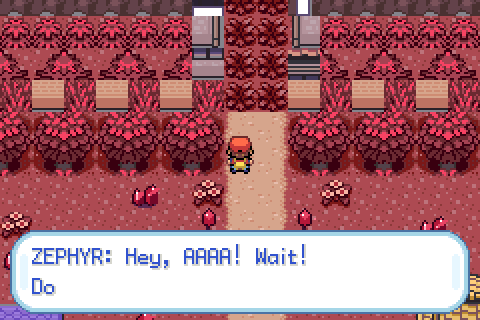
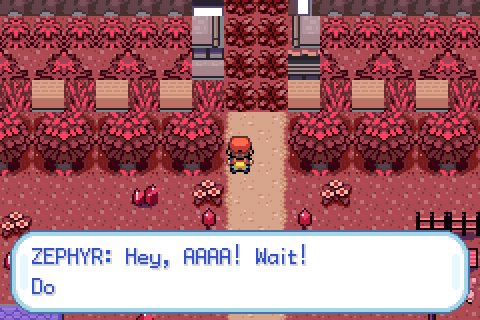
Grenalux: ranch avec enclos cloture et animaux (maison voisine supprimee)
Claude-Session: https://claude.ai/code/session_01GQJ6VBZbBVtTh4mURN6n2L

Changed region(s): [[0.8438, 0.6562, 1.0, 1.0]]

diff --git a/docs/topaze/grenalux_town.py b/docs/topaze/grenalux_town.py
@@ -89,10 +89,9 @@ D['ranch'] = chunk(PB, 30, 5, 2, 5, 4, 34, 5, 'ranch')
 D['museum'] = chunk(PB, 30, 12, 4, 6, 5, 5, 17, 'musee')
 D['lab'] = chunk(LR, 20, 3, 12, 7, 5, 31, 17, 'labo')
 D['hA'] = chunk(PB, 30, 5, 2, 5, 4, 12, 6, 'maison A ardoise', PBP)
-D['hB'] = chunk(LR, 20, 2, 4, 5, 5, 28, 5, 'maison B ocre', LRP)
 D['hC'] = chunk(PB, 30, 5, 2, 5, 4, 12, 14, 'maison C', None)
 D['hD'] = chunk(PB, 30, 9, 16, 4, 4, 11, 27, 'maison D ardoise', PBP)
-D['hE'] = chunk(LR, 20, 2, 4, 5, 5, 3, 27, 'maison E', None)
+D['hE'] = chunk(LR, 20, 2, 4, 5, 5, 3, 27, 'maison E ocre', LRP)
 D['garden'] = chunk(PB, 30, 18, 20, 8, 7, 34, 27, 'maison jardin', None)
 for k, v in D.items(): assert v, 'porte introuvable ' + k
 assert D['player'] == (8, 9) and D['ranch'] == (36, 8) and D['museum'] == (8, 21) and D['lab'] == (35, 21), D
@@ -106,12 +105,21 @@ place_sm(C.BIG, 18, 8, 3, 3, 'cristal garde O'); place_sm(C.BIG, 25, 8, 3, 3, 'c
 place_sm(C.MINE, 38, 22, 3, 3, 'mine')
 for k, (x, y, v) in enumerate(((38, 14, 0), (40, 16, 1), (38, 18, 1), (40, 20, 0))): place_sm(C.BOUL[v], x, y, 2, 2, 'bloc%d' % k)
 def one(x, y, v, name): claim(x, y, 1, 1, name); put(x, y, 0x400 | v)
-for (x, y) in ((21, 3), (24, 3), (21, 7), (24, 7), (10, 11), (18, 11), (26, 11), (34, 11), (10, 14), (18, 14), (30, 14), (38, 14 - 1 + 1 - 1),
+for (x, y) in ((21, 3), (24, 3), (21, 7), (24, 7), (10, 11), (18, 11), (26, 11), (34, 11), (10, 14), (18, 14), (30, 14), (38, 11),
                (15, 19), (30, 19), (15, 25), (30, 25), (10, 31), (16, 26)):
     if (x, y) in OCC: continue
     one(x, y, C.LAMP, 'lampe')
 for (x, y) in ((38, 17), (41, 14), (41, 19), (38, 21), (41, 22), (37, 24), (41, 11), (41, 18)): one(x, y, C.ROCK, 'rocher')
-for (x, y) in ((10, 9), (33, 8), (36, 22), (11, 21), (21, 10), (10, 15)): one(x, y, 3, 'panneau')
+for (x, y) in ((10, 9), (37, 9), (36, 22), (11, 21), (21, 10), (10, 15)): one(x, y, 3, 'panneau')
+# ---- enclos du ranch : clotures x28..33, y3..10 (portail en x30..31), foin, abreuvoir, animaux
+for x in range(28, 34):
+    for y in (3, 10):
+        if y == 10 and x in (30, 31): continue
+        one(x, y, C.FENCE_H, 'cloture')
+for y in range(4, 10):
+    one(28, y, C.FENCE_V, 'cloture'); one(33, y, C.FENCE_V, 'cloture')
+one(29, 4, C.HAY, 'foin'); one(32, 4, C.HAY, 'foin'); one(32, 9, C.TROUGH, 'abreuvoir')
+claim(29, 5, 4, 4, 'enclos')
 for _x in range(20, 25):
     for _y in range(20, 25):
         if (_x, _y) not in OCC: claim(_x, _y, 1, 1, 'ilot')
@@ -135,12 +143,12 @@ def rect(x0, y0, x1, y1):
             PATH.add((x, y))
 rect(GATE_X, 0, GATE_X + 1, 19)
 rect(7, 12, 40, 13)
-rect(7, 10, 8, 11); rect(35, 9, 36, 11)
+rect(7, 10, 8, 11); rect(35, 9, 36, 11); rect(30, 11, 31, 11)
 rect(16, 18, 29, 26)
 rect(7, 22, 8, 25); rect(7, 24, 15, 25)
 rect(34, 22, 35, 25); rect(30, 24, 35, 25); rect(36, 25, 41, 26)
 rect(17, 27, 28, 28); rect(16, 27, 17, 33); rect(28, 27, 29, 33)
-for k in ('hA', 'hB', 'hC', 'hD', 'hE', 'garden'): pass
+for k in ('hA', 'hC', 'hD', 'hE', 'garden'): pass
 def passable(c):
     x, y = c
     return 2 <= x <= W - 3 and 1 <= y <= H - 4 and c not in OCC
@@ -157,7 +165,7 @@ def connect(start):
             n = (c[0] + d[0], c[1] + d[1])
             if n not in prev and passable(n): prev[n] = c; q.append(n)
     raise AssertionError('porte isolee %s' % (start,))
-for k in ('hA', 'hB', 'hC', 'hD', 'hE'): connect((D[k][0], D[k][1] + 1))
+for k in ('hA', 'hC', 'hD', 'hE'): connect((D[k][0], D[k][1] + 1))
 connect((33, 31))                          # le potager s'ouvre a l'ouest (rangee 4 du bloc)
 connect((39, 25))
 def path_id(x, y):
@@ -205,8 +213,8 @@ while placed < 14 and tries < 3000:
     if G[(x, y)] in (GRASS, FLOWER) and (x, y) not in OCC and (x, y) not in PATH and not near(x, y, 1):
         put(x, y, 0x400 | rnd.choice(C.SM)); claim(x, y, 1, 1, 'petit cristal'); placed += 1
 # ---- PNJ d'ambiance (cases reservees) ; coordonnees reprises par grenalux_events.py
-NPC = {'miner': (41, 26), 'oldman': (19, 22), 'girl': (17, 30), 'boy': (29, 31), 'scientist': (33, 23), 'lady': (36, 23)}
-for k, c in NPC.items(): assert c not in OCC and G[c] in (GRASS, FLOWER) or c in PATH, (k, c, hex(G[c]))
+NPC = {'slowpoke': (30, 6), 'nidoran': (31, 8), 'meowth': (29, 7), 'miner': (41, 26), 'oldman': (19, 22), 'girl': (17, 30), 'boy': (29, 31), 'scientist': (33, 23), 'lady': (36, 23)}
+for k, c in NPC.items(): assert (c not in OCC or OCC[c] == 'enclos') and G[c] in (GRASS, FLOWER) or c in PATH, (k, c, hex(G[c]))
 json.dump(NPC, open('/tmp/grenalux_npc.json', 'w'))
 # ---- ecriture
 open(SD + 'metatiles.bin', 'wb').write(mt); open(SD + 'metatile_attributes.bin', 'wb').write(att)

diff --git a/docs/topaze/grenalux_crystals.py b/docs/topaze/grenalux_crystals.py
@@ -103,6 +103,32 @@ def mine():
     d.rectangle((22, 14, 25, 19), fill=11); d.polygon([(23, 9), (26, 12), (23, 15), (20, 12)], fill=8, outline=5)   # cristal-enseigne
     d.line([(17, 44), (30, 44)], fill=13); d.line([(17, 47), (30, 47)], fill=13)
     return im, 3, 3
+
+def fence_h():
+    im = ground_bg(16, 16); d = ImageDraw.Draw(im)
+    shadow(d, 0, 12, 15, 15)
+    for y in (5, 9): d.rectangle((0, y, 15, y + 1), fill=13, outline=14); d.line([(0, y), (15, y)], fill=15)
+    for x in (0, 7, 14): d.rectangle((x, 2, x + 1, 13), fill=12, outline=14); d.point((x, 3), fill=13)
+    return im
+def fence_v():
+    im = ground_bg(16, 16); d = ImageDraw.Draw(im)
+    shadow(d, 4, 12, 12, 15)
+    d.rectangle((6, 0, 9, 15), fill=12, outline=14); d.line([(7, 0), (7, 15)], fill=13)
+    d.rectangle((3, 3, 12, 4), fill=13, outline=14); d.rectangle((3, 9, 12, 10), fill=13, outline=14)
+    return im
+def hay():
+    im = ground_bg(16, 16); d = ImageDraw.Draw(im)
+    shadow(d, 0, 11, 15, 15)
+    d.rectangle((1, 4, 14, 13), fill=8, outline=14)
+    for y in (6, 8, 10, 12): d.line([(2, y), (13, y)], fill=15)
+    d.line([(5, 4), (5, 13)], fill=12); d.line([(10, 4), (10, 13)], fill=12)
+    return im
+def trough():
+    im = ground_bg(16, 16); d = ImageDraw.Draw(im)
+    shadow(d, 0, 11, 15, 15)
+    d.rectangle((1, 6, 14, 12), fill=12, outline=14); d.rectangle((3, 7, 12, 9), fill=13); d.line([(4, 8), (7, 8)], fill=9)
+    d.line([(2, 13), (2, 14)], fill=14); d.line([(13, 13), (13, 14)], fill=14)
+    return im
 # ---- registre
 mt = bytearray(open(D + 'metatiles.bin', 'rb').read()); att = bytearray(open(D + 'metatile_attributes.bin', 'rb').read())
 NMT = len(mt) // 16
@@ -123,6 +149,7 @@ def meta(block):
 def slice_all(im, bw, bh): return {(i, j): meta(im.crop((i * 16, j * 16, i * 16 + 16, j * 16 + 16))) for j in range(bh) for i in range(bw)}
 BIG = slice_all(*big()); MID = slice_all(*mid()); SM = [meta(small(0)), meta(small(1))]
 LAMP = meta(lamp()); BOUL = [slice_all(*boulder(0)), slice_all(*boulder(1))]; ROCK = meta(rock()); MINE = slice_all(*mine())
+FENCE_H = meta(fence_h()); FENCE_V = meta(fence_v()); HAY = meta(hay()); TROUGH = meta(trough())
 assert NT + len(tiles) <= 384, NT + len(tiles)
 open(D + 'metatiles.bin', 'wb').write(mt); open(D + 'metatile_attributes.bin', 'wb').write(att)
 rows = (NT + len(tiles) + 15) // 16

diff --git a/docs/topaze/grenalux_events.py b/docs/topaze/grenalux_events.py
@@ -39,7 +39,7 @@ for c in d['coord_events']:
     if c['script'].endswith('OakTriggerLeft'): c['x'],c['y']=22,1
     elif c['script'].endswith('OakTriggerRight'): c['x'],c['y']=23,1
     elif c['script'].endswith('SignLadyTrigger'): c['x'],c['y']=23,2
-sg={'PalletTown_EventScript_OaksLabSign':(36,22),'PalletTown_EventScript_PlayersHouseSign':(10,9),'PalletTown_EventScript_RivalsHouseSign':(33,8),
+sg={'PalletTown_EventScript_OaksLabSign':(36,22),'PalletTown_EventScript_PlayersHouseSign':(10,9),'PalletTown_EventScript_RivalsHouseSign':(37,9),
  'PalletTown_EventScript_TownSign':(21,10),'PalletTown_EventScript_TrainerTips':(10,15),'PalletTown_EventScript_MuseumSign':(11,21)}
 for b in d['bg_events']: b['x'],b['y']=sg[b['script']]
 for c in d['connections']:
@@ -61,6 +61,12 @@ AMB = [('MINER', 'miner', 'OBJ_EVENT_GFX_WORKER_M', 'MOVEMENT_TYPE_FACE_LEFT',
         ['I found a tiny crystal by the pond.', 'It glows if you hold it up to the sun!']),
        ('SCIENTIST', 'scientist', 'OBJ_EVENT_GFX_SCIENTIST', 'MOVEMENT_TYPE_FACE_UP',
         ['The lab measures the aura of every', 'crystal in town. The readings keep', 'rising, and nobody knows why.']),
+       ('SLOWPOKE', 'slowpoke', 'OBJ_EVENT_GFX_SLOWPOKE', 'MOVEMENT_TYPE_WANDER_AROUND',
+        ['SLOWPOKE: ...Yawn.', 'It has been staring at the hay for hours.']),
+       ('NIDORAN', 'nidoran', 'OBJ_EVENT_GFX_NIDORAN_F', 'MOVEMENT_TYPE_WANDER_AROUND',
+        ['NIDORAN: Kyuu!', 'It nibbles the garnet-dusted grass.']),
+       ('MEOWTH', 'meowth', 'OBJ_EVENT_GFX_MEOWTH', 'MOVEMENT_TYPE_WANDER_AROUND',
+        ['MEOWTH: Nyaa!', 'It keeps the barn free of mice.']),
        ('LADY', 'lady', 'OBJ_EVENT_GFX_BEAUTY', 'MOVEMENT_TYPE_FACE_RIGHT',
         ['Garnet is the stone of this town.', 'Red roofs, red trees, red stone...', 'Even the grass blushes here.'])]
 txt = open('data/maps/PalletTown/text.inc').read(); scr = open('data/maps/PalletTown/scripts.inc').read()

diff --git a/docs/technique/ARCHITECTURE.md b/docs/technique/ARCHITECTURE.md
@@ -46,7 +46,7 @@ Le dépôt est celui de pokefirered ; seuls les éléments modifiés pour Topaze
 | **Musée de Grenalux** (nouvelle carte) | `data/maps/PalletTown_Museum/` (intérieur = disposition du Musée de Pyropia (ex-Argenta), PNJ/textes propres), façade ajoutée dans `data/layouts/PalletTown/map.bin` à la place du jardin (copie des tuiles de la maison du joueur), warp 3 de `PalletTown/map.json` ; outils : `tools/topaze/maps/mapkit.py` |
 | **Grenalux v3 – décors GBA d'Émeraude, plan original** | `docs/topaze/import_emerald_tiles.py` importe les tilesets d'Émeraude (`gTileset_GeneralEmerald`, `gTileset_PetalburgEmerald`, sans animation d'eau) depuis le dépôt public pret/pokeemerald (à cloner dans `../pokeemerald`) ; `docs/topaze/grenalux_emerald.py` assemble le village (maisons, labo, musée copiés d'Émeraude, chemins en sable auto-tuilés, bassin sud relié à la route 21, arbres, fleurs, panneaux) et branche `LAYOUT_PALLET_TOWN` sur ces tilesets. Portes : joueur (6,7), ranch (18,6), labo (18,14), musée (6,14). **Thème GRENAT** : `grenat_palette.py` recolore les palettes (végétation bordeaux, sable rosé, eau violet nuit, toits grenat) et `grenalux_crystals.py` dessine par code des cristaux de grenat (2 grandes grappes, 1 moyenne, petits cristaux ; palette secondaire 7). Ordre de régénération : `import_emerald_tiles.py` → `grenat_palette.py` → `grenalux_emerald.py` → `grenalux_crystals.py`. Ancienne version dessinée à la main : `grenalux_original.py` (v2, conservée pour mémoire). Les trajets des cinématiques sont recalculés (Dijkstra sur la grille de collision) et écrits dans `PalletTown/scripts.inc`. |
 | **Grenalux v5 – grande ville 44×36 (référence v5)** | `docs/topaze/grenalux_big.py` (ordre : `import_emerald_tiles.py` → `grenat_palette.py` → `grenalux_big.py`) : avenue nord-sud, grande rue est-ouest, place centrale avec îlot et monument de cristal, bassin sud relié à la route 21, 4 bâtiments utiles (joueur (8,9), ranch (36,8), labo (35,21), musée (8,21)) et 6 maisons décoratives, potager, ~34 arbres, cristaux. Connexions : route 1 décalée de 10 (ouverture en x=22..23), route 21 décalée de 14 (eau en x=21..23). `heal_locations.json` : respawn (8,10). **La v4 (24×20) reste la référence** : branche `grenalux-v4-reference` et `docs/topaze/reference/` (carte, map.json, scripts, image) ; ses scripts (`grenalux_emerald.py`, `grenalux_crystals.py` en `__main__`) restent exécutables mais il faut alors remettre les dimensions 24×20 dans `layouts.json` et `map.json`. |
-| **Grenalux v6 – ville vivable (version actuelle)** | `docs/topaze/grenalux_town.py` puis `grenalux_events.py` (ordre : `import_emerald_tiles.py` → `grenat_palette.py` → `git checkout fa8f0d0 -- data/layouts/layouts.json` → `grenalux_town.py` → `grenalux_events.py`). Plan d'occupation avec assertions (aucun chevauchement, portes et PNJ atteignables), toits en variantes de palette (11 ardoise-violet, 12 ocre), lampadaires de cristal, cristaux gardiens de l'avenue, carrière de blocs + entrée de mine à l'est, bassin avec promenade, potager, bosquets, chemins de portes par BFS, 6 PNJ d'ambiance (textes provisoires). Mêmes portes/coordonnées d'événements que la v5 sauf panneau du labo (36,22). Les versions v4 (24×20) et v5 (44×36) restent archivées : branches `grenalux-v4-reference`, `grenalux-v5-reference` et `docs/topaze/reference/`. |
+| **Grenalux v6 – ville vivable (version actuelle)** | `docs/topaze/grenalux_town.py` puis `grenalux_events.py` (ordre : `import_emerald_tiles.py` → `grenat_palette.py` → `git checkout fa8f0d0 -- data/layouts/layouts.json` → `grenalux_town.py` → `grenalux_events.py`). Plan d'occupation avec assertions (aucun chevauchement, portes et PNJ atteignables), toits en variantes de palette (11 ardoise-violet, 12 ocre), lampadaires de cristal, cristaux gardiens de l'avenue, carrière de blocs + entrée de mine à l'est, bassin avec promenade, potager, bosquets, chemins de portes par BFS, 6 PNJ d'ambiance (textes provisoires). **Ranch** : maison voisine supprimée, enclos clôturé à l'ouest du ranch (clôtures, foin, abreuvoir dessinés dans `grenalux_crystals.py`, portail en (30..31,10)) avec Ramoloss, Nidoran, Miaouss ; panneau du ranch en (37,9). Mêmes portes/coordonnées d'événements que la v5 sauf panneau du labo (36,22). Les versions v4 (24×20) et v5 (44×36) restent archivées : branches `grenalux-v4-reference`, `grenalux-v5-reference` et `docs/topaze/reference/`. |
 | Ville de départ Grenalux | `PalletTown` (`text.inc`), `region_map_entry_strings.h` |
 | Rival par défaut ZEPHYR | `data/text/new_game_intro.inc` |
 | Team Onybris | ~58 fichiers (classe de dresseur + dialogues), remplacement de « TEAM ROCKET » / « ROCKET » dans les `.string` uniquement |
